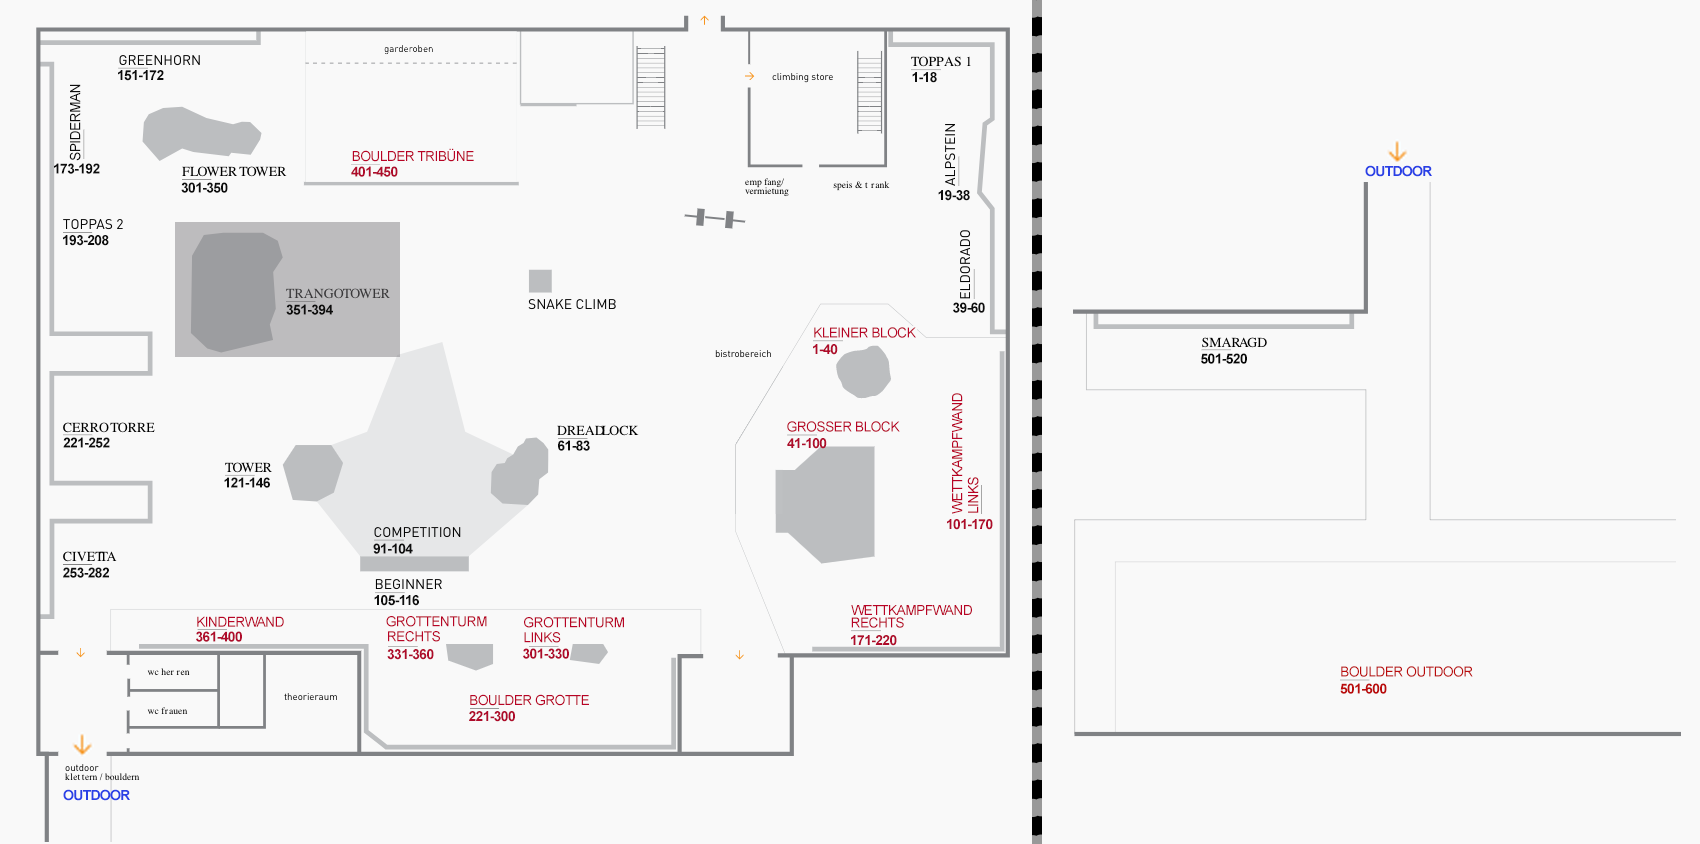
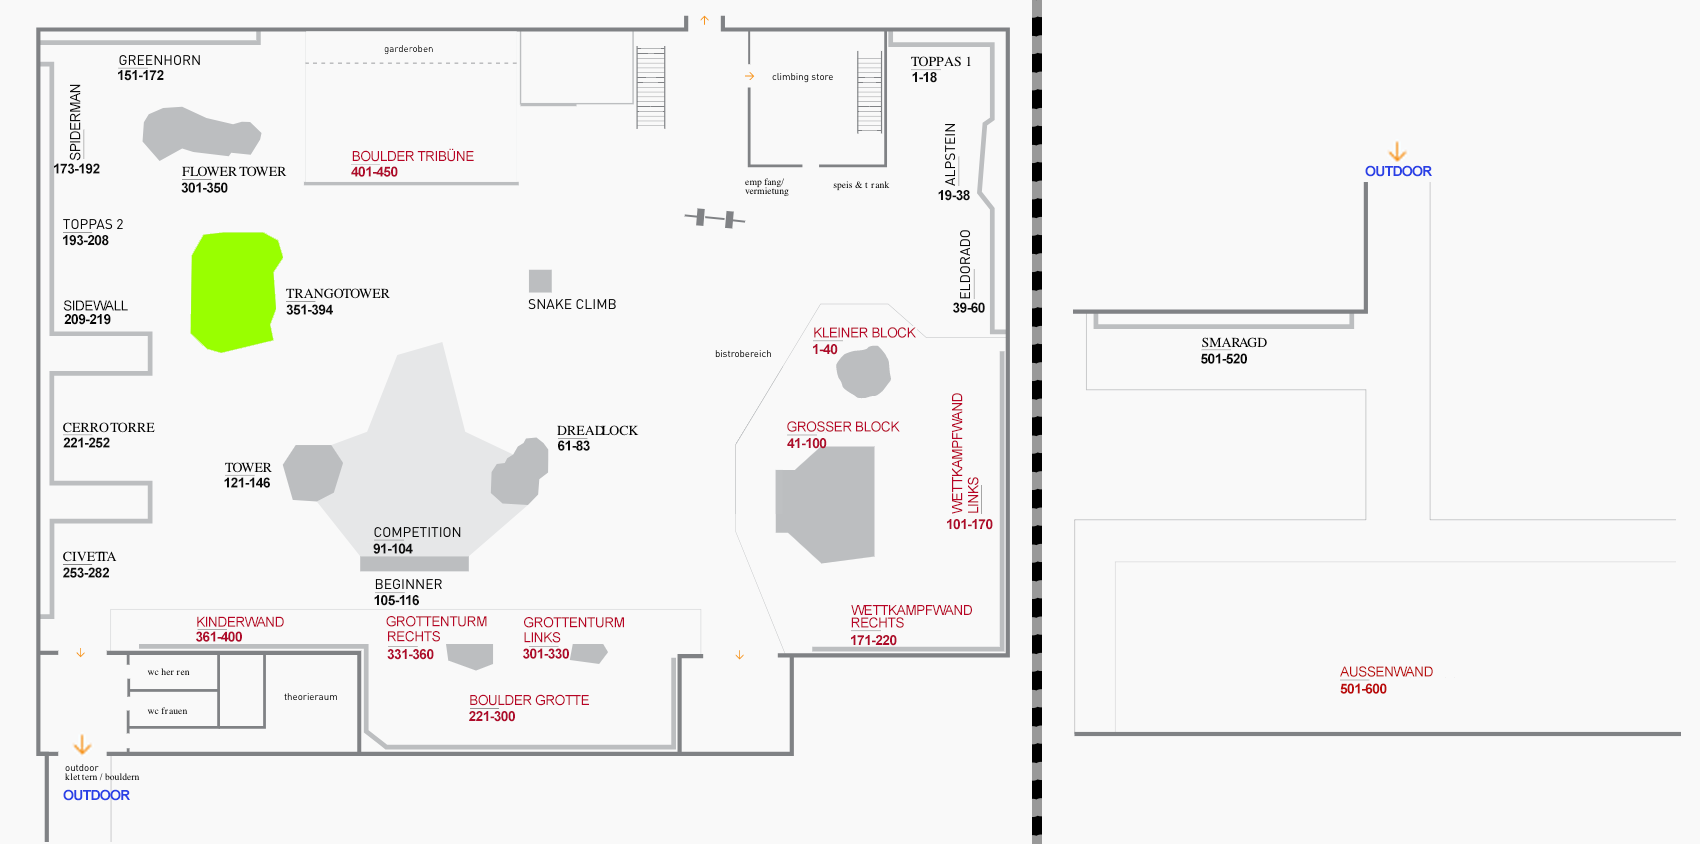
Changed all map images to show sectors with green highlight.

Changed region(s): [[0.0935, 0.2464, 0.2494, 0.4313], [0.7794, 0.7701, 0.8729, 0.8009], [0.0312, 0.3389, 0.0624, 0.4005]]

diff --git a/javascript.js b/javascript.js
@@ -47,6 +47,19 @@ function getColorFromGrade(grade, type) {
   }
 }
 
+var special_letters = [
+  ['ä', 'a'],
+  ['ö', 'o'],
+  ['ü', 'u']
+];
+
+function replaceSpecialLetters(text) {
+  for (var i=0; i<special_letters.length; i++) {
+    text = text.replace(special_letters[i][0], special_letters[i][1]);
+  }
+  return text;
+}
+
 $(document).ready(function() {
   var startHash = window.location.search;
   if (!startHash) {
@@ -169,19 +182,21 @@ $(document).ready(function() {
     if (routesarray[index]["place"] == "Gas") {
       sector = routesarray[index]["sector"];
       $('#sector').text("Gaswerk, " + sector);
-      if (sector.indexOf("Halle") != -1) {
-	halle_no = sector.slice(sector.indexOf("Halle") + 6, sector.indexOf("Halle") + 7);
-	$("#map").attr("src", "gaswerk_halle" + halle_no + ".png");
-	$("#map_link").attr("href", "gaswerk_halle" + halle_no + ".png");
-      } else if (sector.indexOf("Outdoor") != -1) {
-	$("#map").attr("src", "gaswerk_outdoor.png");
-	$("#map_link").attr("href", "gaswerk_outdoor.png");
-      } else if (routesarray[index]["typ"] == "Bould") {
+      if (routesarray[index]["typ"] == "Bould") {
 	$("#map").attr("src", "gaswerk_boulder.png");
 	$("#map_link").attr("href", "gaswerk_boulder.png");
       } else {
-	$("#map").attr("src", "gaswerk_map.png");
-	$("#map_link").attr("href", "gaswerk_map.png");
+	var sub_sector = sector.replace( /\s+/g , "-");
+	if (sector.indexOf("Halle") != -1) {
+	  sub_sector = sub_sector.split('-').slice(2).join('-').toLowerCase();
+	  sub_sector = replaceSpecialLetters(sub_sector);
+	} else {
+	  sub_sector = sub_sector.split('-').slice(1).join('-').toLowerCase();
+	  sub_sector = replaceSpecialLetters(sub_sector);
+	}
+	var filename = "gaswerk_" + sub_sector + ".png";
+	$("#map").attr("src", filename);
+	$("#map_link").attr("href", filename);
       }
     } else {
       sector = routesarray[index]["sector"];
@@ -190,8 +205,10 @@ $(document).ready(function() {
 	$("#map").attr("src", "milandia_boulder.png");
 	$("#map_link").attr("href", "milandia_boulder.png");
       } else {
-	$("#map").attr("src", "milandia_" + sector.split(" ")[0].toLowerCase() + ".png");
-	$("#map_link").attr("href", "milandia_" + sector.split(" ")[0].toLowerCase() + ".png");
+	var sub_sector = sector.split(" ")[0].toLowerCase();
+	sub_sector = replaceSpecialLetters(sub_sector);
+	$("#map").attr("src", "milandia_" + sub_sector + ".png");
+	$("#map_link").attr("href", "milandia_" + sub_sector + ".png");
       }
     }
 
